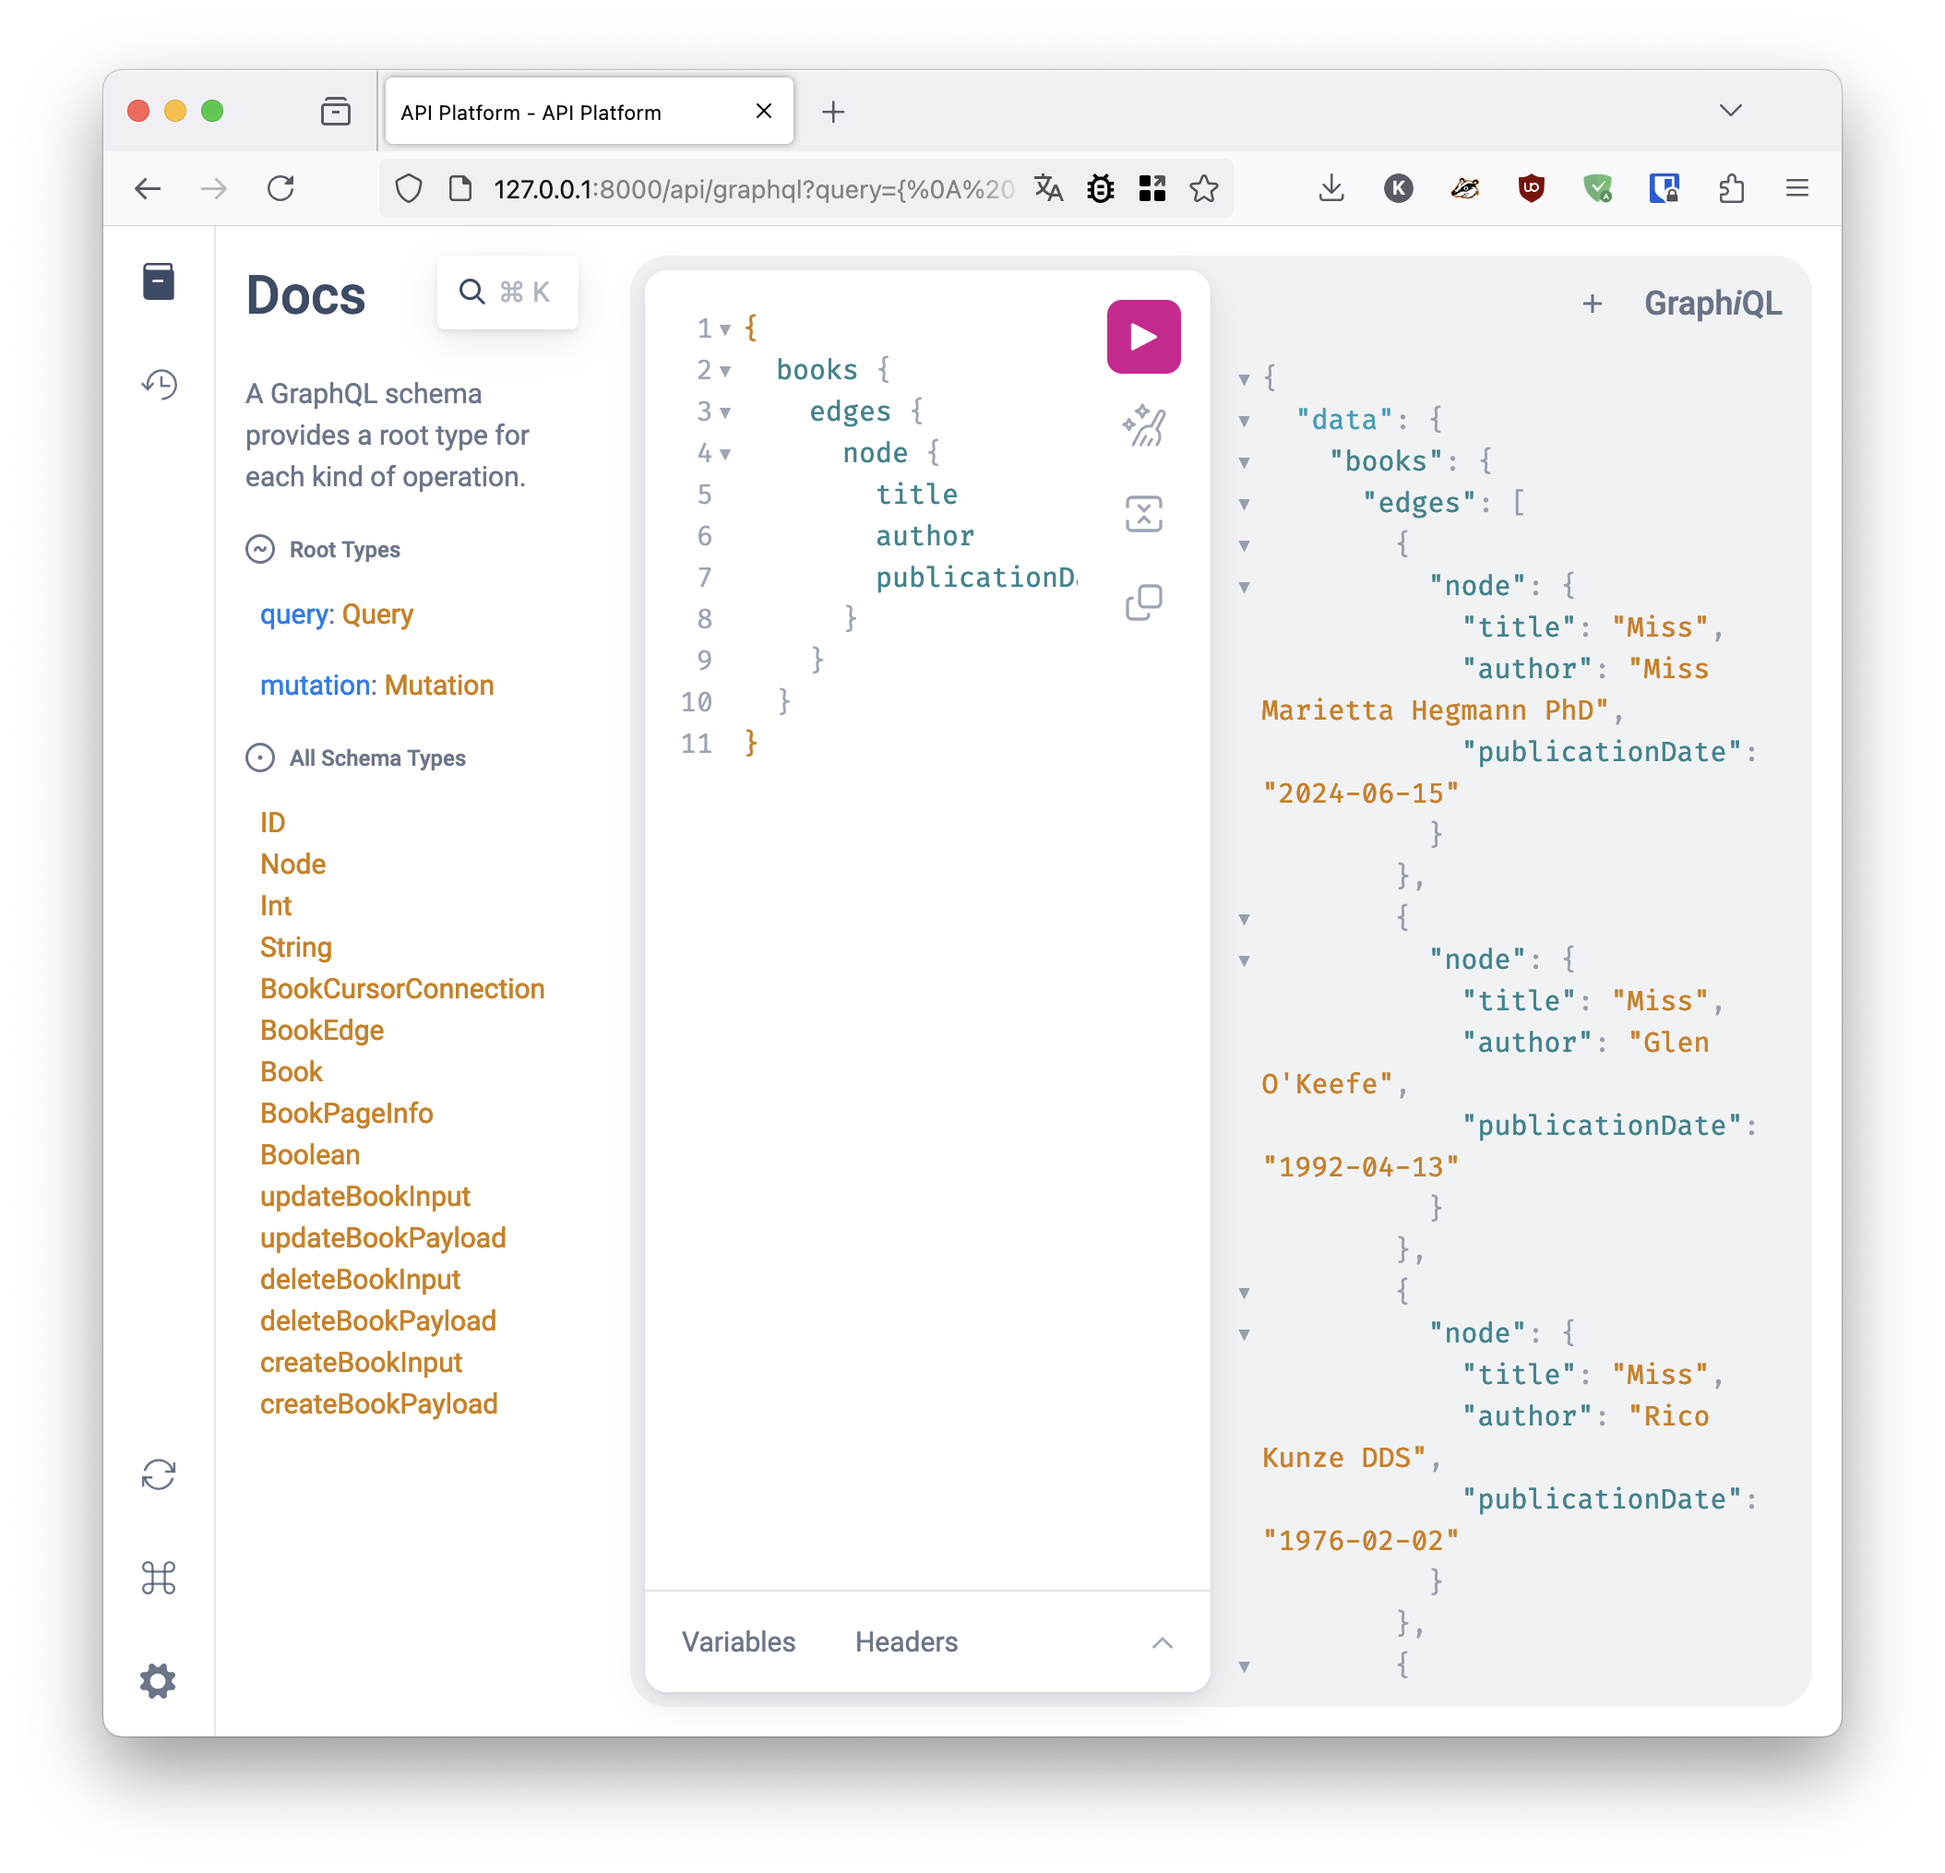
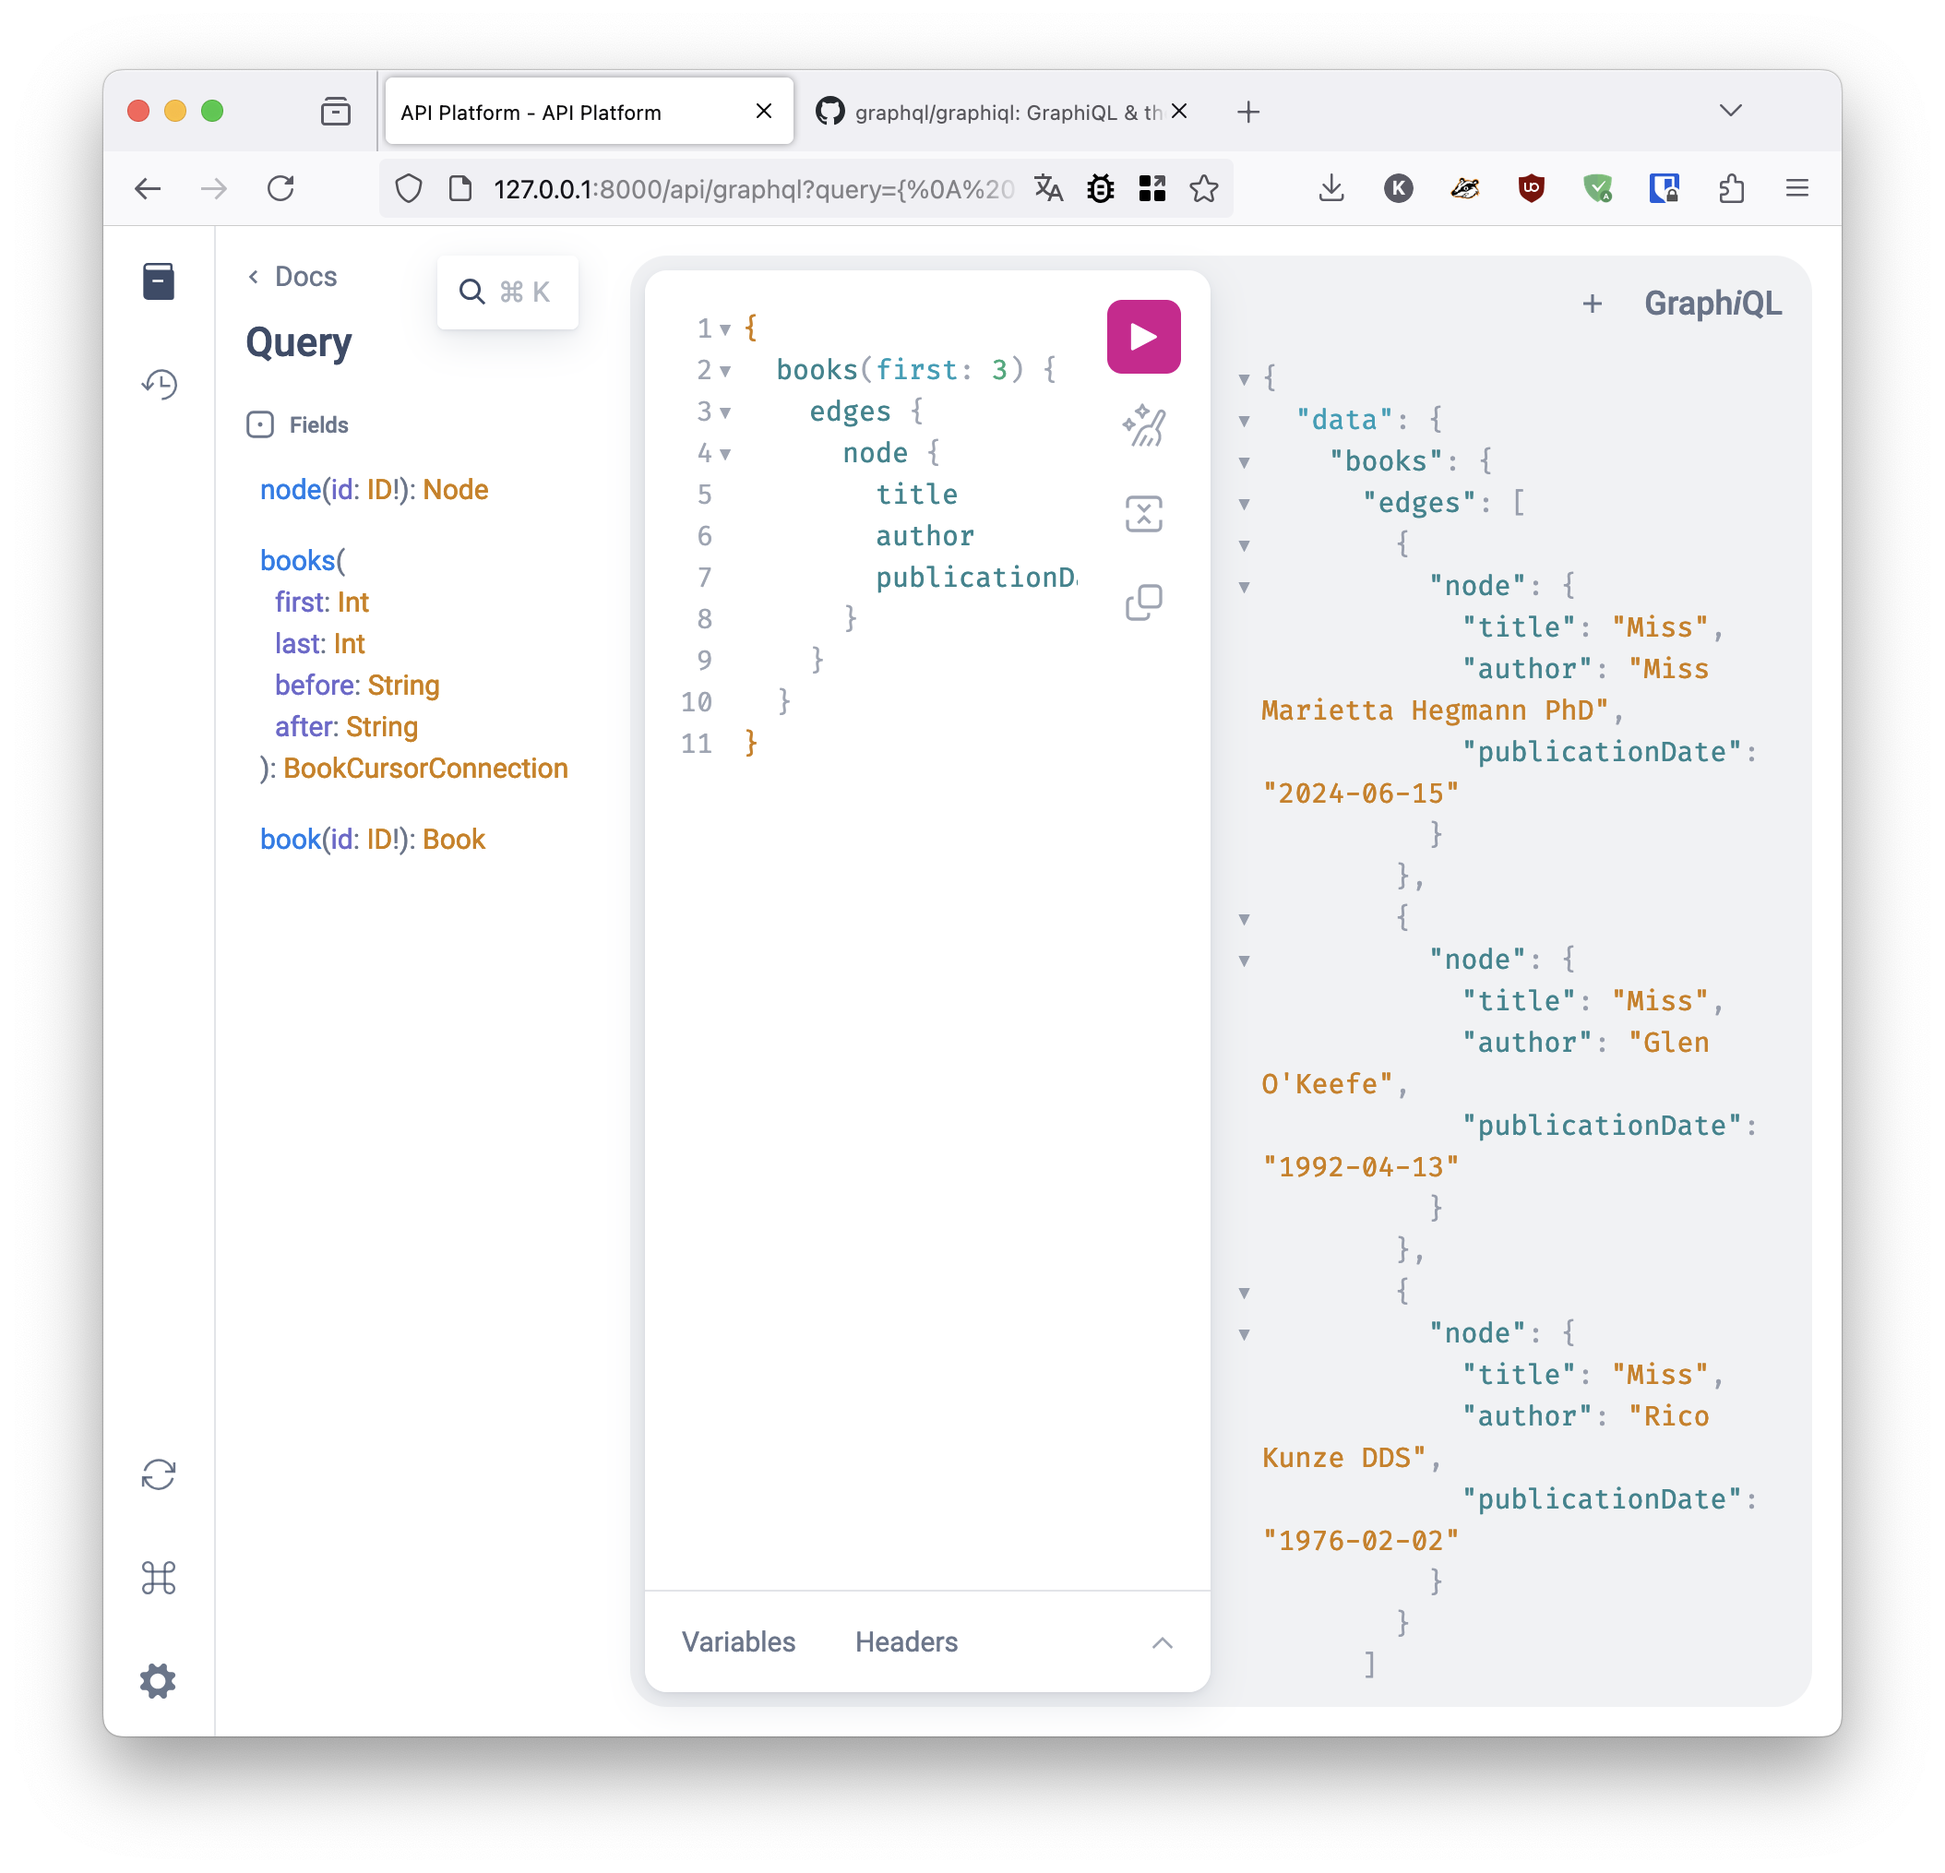
better GraphQL query

Changed region(s): [[0.1233, 0.1241, 0.2775, 0.4655], [0.1233, 0.4966, 0.2467, 0.7759], [0.4625, 0.1862, 0.4934, 0.2172]]

diff --git a/laravel/index.md b/laravel/index.md
@@ -174,10 +174,12 @@ Then, enable GraphQL in `config/api-platform.php`:
 Then open `http://127.0.0.1:8000/api/graphql` and replace the default GraphQL query example with:
 ```
 {
-  books {
+  books(first: 3) {
     edges {
       node {
+        title
         author
+        publicationDate
       }
     }
   }
